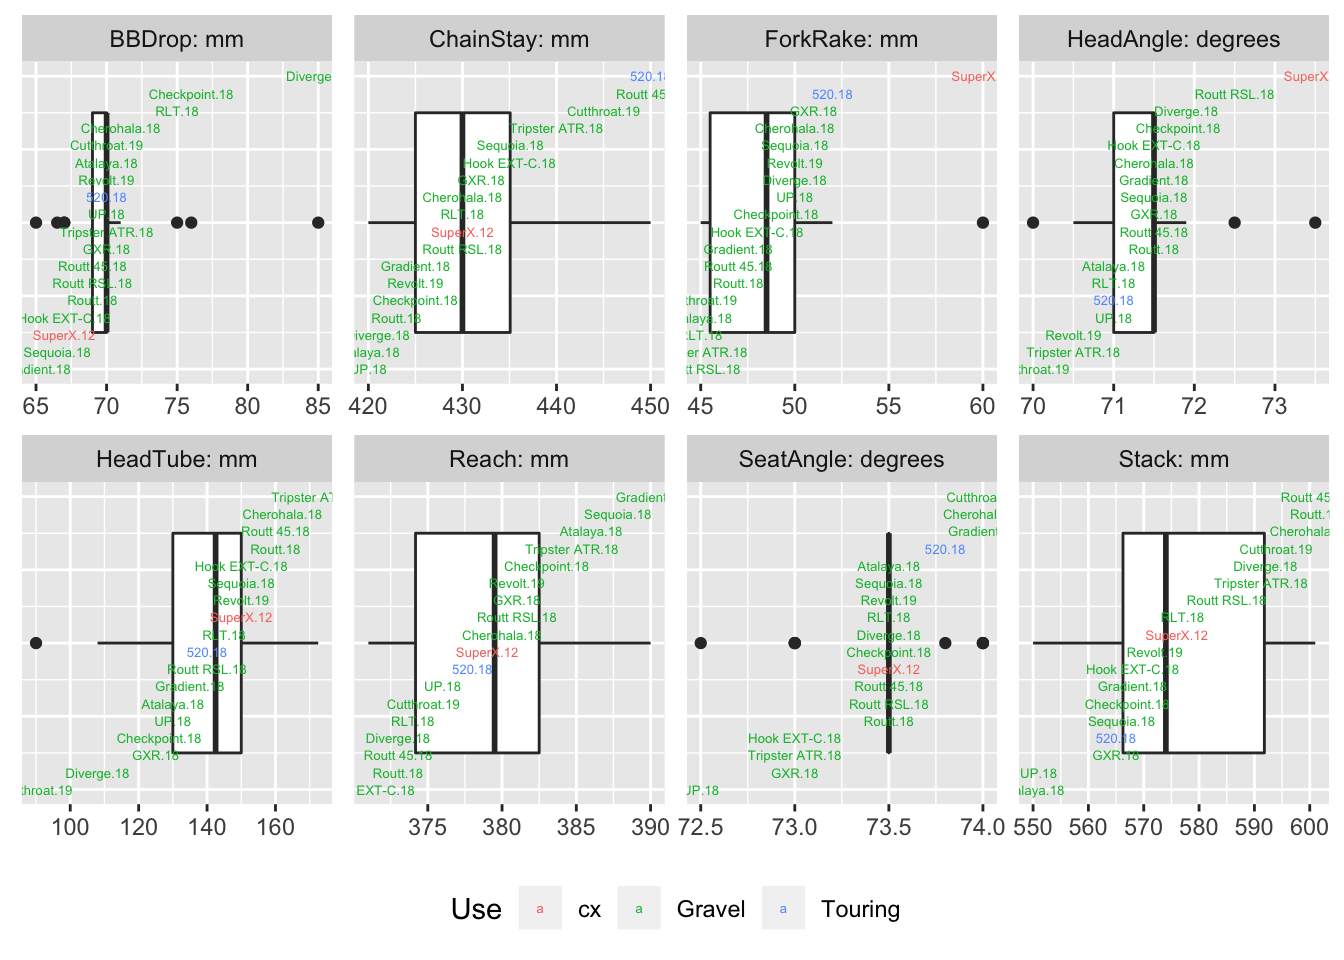
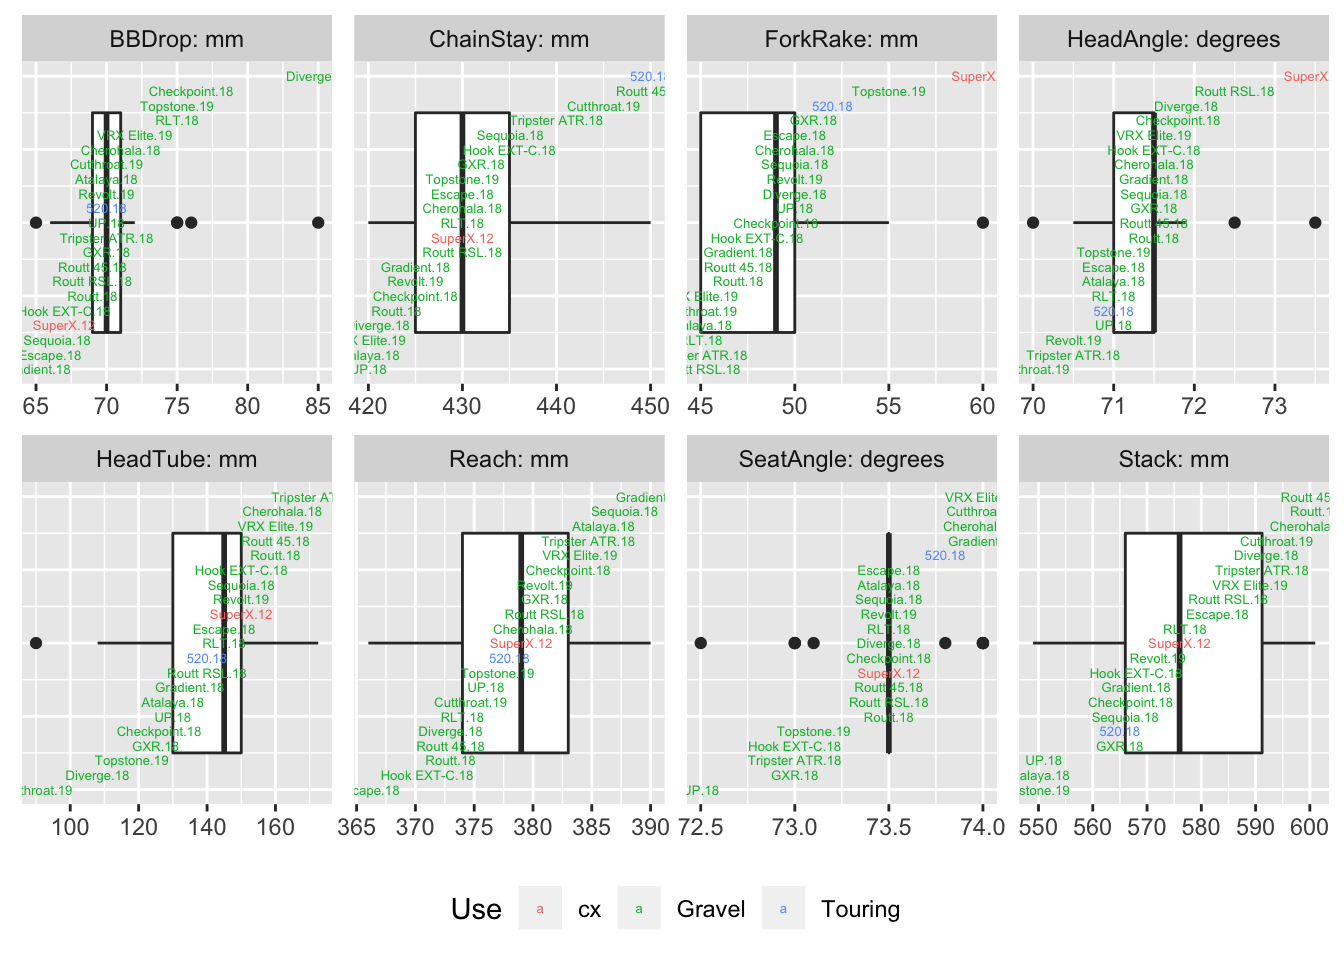
added topstone and vortec

diff --git a/public/post/2018-11-08-geometry/index.html b/public/post/2018-11-08-geometry/index.html
@@ -179,7 +179,7 @@ Figure 3: Where does each bike fall on each geometry attribute?
 <hr />
 <p>Here’s the data.</p>
 <div id="htmlwidget-1" style="width:100%;height:auto;" class="datatables html-widget"></div>
-<script type="application/json" data-for="htmlwidget-1">{"x":{"filter":"none","data":[["1","2","3","4","5","6","7","8","9","10","11","12","13","14","15","16","17","18","19","20","21","22","23","24","25","26","27","28","29","30","31","32"],["Bombtrack","Cannondale","Cannondale","Curve","Curve","Curve","Giant","Giant","Giant","Guillem","Kinesis","Litespeed","Moots","Moots","Moots","Moots","Moots","Moots","Niner","Niner","Open","Reilly","Salsa","Specialized","Specialized","Specialized","Specialized","Specialized","Specialized","Specialized","Trek","Trek"],["Hook EXT-C","SuperX","SuperX","Belgie","Belgie Spirit","GXR","Defy","Revolt","TCR Ad","Atalaya","Tripster ATR","Cherohala","Psychlo X RSL","Routt","Routt 45","Routt RSL","Vamoots","Vamoots RSL","Air9","RLT","UP","Gradient","Cutthroat","Crux","Diverge","Epic FS","Epic HT","Sequoia","Tarmac","Tarmac","520","Checkpoint"],[2018,2012,2018,2018,2018,2018,2018,2019,2018,2018,2018,2018,2018,2018,2018,2018,2018,2018,2018,2018,2018,2018,2019,2018,2018,2004,2018,2018,2018,2018,2018,2018],["Gravel","CX","CX","Road","Endurance","Gravel","Endurance","Gravel","Road","Gravel","Gravel","Gravel","CX","Gravel","Gravel","Gravel","Endurance","Road","XC","Gravel","Gravel","Gravel","Gravel","CX","Gravel","XC","XC","Gravel","Road","Road","Touring","Gravel"],[73,73.5,74,73.5,73.8,73,73.5,73.5,73,73.5,73,74,73.5,73.5,73.5,73.5,73.5,73.5,73,73.5,72.5,74,74,73.5,73.5,74,74,73.5,74,73.5,73.8,73.5],[71.5,73.5,71,73,71.5,71.5,72.5,70.5,73,71,70.5,71.5,72.5,71.5,71.5,72.5,72.5,73.5,71,71,71,71.5,70,71.5,71.9,70.5,69.8,71.5,73,73.5,71,71.8],[67,67,69,69,72,70,70,70,68,70,70,71,61,69,69,69,76,72,54,75,70,65,70,69,85,54,61,66.5,72,72,70,76],[435,430,422,410,420,432,420,425,405,420,440,430,423,423,450,430,415,410,439,430,420,425,445,425,421,426,430,435.1,410,410,450,425],[48,60,55,45,45,51,45,50,45,45,45,50,50,47,47,45,50,43,48,45,50,47,45,50,50,57,51,50,44,44,52,49],[568,576,555,552,574,565,567,572,545,550,591.2,600,577,601,601,585,586,572,617,577,551,568,593.9,566,592,617,608,566,544,565,565,567],[371,379,378,381,374,381,377,381,383,386,384.7,380,390,373,373,381,377,387,418,374,376,390,374.7,382,373,412,418,387.8,384,395,378,383]],"container":"<table class=\"display\">\n  <thead>\n    <tr>\n      <th> <\/th>\n      <th>Manufacturer<\/th>\n      <th>Frame<\/th>\n      <th>Year<\/th>\n      <th>Use<\/th>\n      <th>SeatAngle<\/th>\n      <th>HeadAngle<\/th>\n      <th>BBDrop<\/th>\n      <th>ChainStay<\/th>\n      <th>ForkRake<\/th>\n      <th>Stack<\/th>\n      <th>Reach<\/th>\n    <\/tr>\n  <\/thead>\n<\/table>","options":{"columnDefs":[{"className":"dt-right","targets":[3,5,6,7,8,9,10,11]},{"orderable":false,"targets":0}],"order":[],"autoWidth":false,"orderClasses":false}},"evals":[],"jsHooks":[]}</script>
+<script type="application/json" data-for="htmlwidget-1">{"x":{"filter":"none","data":[["1","2","3","4","5","6","7","8","9","10","11","12","13","14","15","16","17","18","19","20","21","22","23","24","25","26","27","28","29","30","31","32","33","34","35"],["Bombtrack","Cannondale","Cannondale","Cannondale","Curve","Curve","Curve","Enigma","Giant","Giant","Giant","Guillem","Kinesis","Litespeed","Moots","Moots","Moots","Moots","Moots","Moots","Niner","Niner","Open","Reilly","Salsa","Specialized","Specialized","Specialized","Specialized","Specialized","Specialized","Specialized","Trek","Trek","Votec"],["Hook EXT-C","SuperX","SuperX","Topstone","Belgie","Belgie Spirit","GXR","Escape","Defy","Revolt","TCR Ad","Atalaya","Tripster ATR","Cherohala","Psychlo X RSL","Routt","Routt 45","Routt RSL","Vamoots","Vamoots RSL","Air9","RLT","UP","Gradient","Cutthroat","Crux","Diverge","Epic FS","Epic HT","Sequoia","Tarmac","Tarmac","520","Checkpoint","VRX Elite"],[2018,2012,2018,2019,2018,2018,2018,2018,2018,2019,2018,2018,2018,2018,2018,2018,2018,2018,2018,2018,2018,2018,2018,2018,2019,2018,2018,2004,2018,2018,2018,2018,2018,2018,2019],["Gravel","CX","CX","Gravel","Road","Endurance","Gravel","Gravel","Endurance","Gravel","Road","Gravel","Gravel","Gravel","CX","Gravel","Gravel","Gravel","Endurance","Road","XC","Gravel","Gravel","Gravel","Gravel","CX","Gravel","XC","XC","Gravel","Road","Road","Touring","Gravel","Gravel"],[73,73.5,74,73.1,73.5,73.8,73,73.5,73.5,73.5,73,73.5,73,74,73.5,73.5,73.5,73.5,73.5,73.5,73,73.5,72.5,74,74,73.5,73.5,74,74,73.5,74,73.5,73.8,73.5,74],[71.5,73.5,71,71,73,71.5,71.5,71,72.5,70.5,73,71,70.5,71.5,72.5,71.5,71.5,72.5,72.5,73.5,71,71,71,71.5,70,71.5,71.9,70.5,69.8,71.5,73,73.5,71,71.8,71.5],[67,67,69,75,69,72,70,66,70,70,68,70,70,71,61,69,69,69,76,72,54,75,70,65,70,69,85,54,61,66.5,72,72,70,76,72],[435,430,422,430,410,420,432,430,420,425,405,420,440,430,423,423,450,430,415,410,439,430,420,425,445,425,421,426,430,435.1,410,410,450,425,420],[48,60,55,55,45,45,51,50,45,50,45,45,45,50,50,47,47,45,50,43,48,45,50,47,45,50,50,57,51,50,44,44,52,49,45],[568,576,555,549,552,574,565,583,567,572,545,550,591.2,600,577,601,601,585,586,572,617,577,551,568,593.9,566,592,617,608,566,544,565,565,567,589],[371,379,378,377,381,374,381,366,377,381,383,386,384.7,380,390,373,373,381,377,387,418,374,376,390,374.7,382,373,412,418,387.8,384,395,378,383,384]],"container":"<table class=\"display\">\n  <thead>\n    <tr>\n      <th> <\/th>\n      <th>Manufacturer<\/th>\n      <th>Frame<\/th>\n      <th>Year<\/th>\n      <th>Use<\/th>\n      <th>SeatAngle<\/th>\n      <th>HeadAngle<\/th>\n      <th>BBDrop<\/th>\n      <th>ChainStay<\/th>\n      <th>ForkRake<\/th>\n      <th>Stack<\/th>\n      <th>Reach<\/th>\n    <\/tr>\n  <\/thead>\n<\/table>","options":{"columnDefs":[{"className":"dt-right","targets":[3,5,6,7,8,9,10,11]},{"orderable":false,"targets":0}],"order":[],"autoWidth":false,"orderClasses":false}},"evals":[],"jsHooks":[]}</script>
 <hr />
 <div id="acknowledgements" class="section level1">
 <h1>Acknowledgements</h1>

diff --git a/content/post/2018-11-08-geometry.html b/content/post/2018-11-08-geometry.html
@@ -62,7 +62,7 @@ Figure 3: Where does each bike fall on each geometry attribute?
 <hr />
 <p>Here’s the data.</p>
 <div id="htmlwidget-1" style="width:100%;height:auto;" class="datatables html-widget"></div>
-<script type="application/json" data-for="htmlwidget-1">{"x":{"filter":"none","data":[["1","2","3","4","5","6","7","8","9","10","11","12","13","14","15","16","17","18","19","20","21","22","23","24","25","26","27","28","29","30","31","32"],["Bombtrack","Cannondale","Cannondale","Curve","Curve","Curve","Giant","Giant","Giant","Guillem","Kinesis","Litespeed","Moots","Moots","Moots","Moots","Moots","Moots","Niner","Niner","Open","Reilly","Salsa","Specialized","Specialized","Specialized","Specialized","Specialized","Specialized","Specialized","Trek","Trek"],["Hook EXT-C","SuperX","SuperX","Belgie","Belgie Spirit","GXR","Defy","Revolt","TCR Ad","Atalaya","Tripster ATR","Cherohala","Psychlo X RSL","Routt","Routt 45","Routt RSL","Vamoots","Vamoots RSL","Air9","RLT","UP","Gradient","Cutthroat","Crux","Diverge","Epic FS","Epic HT","Sequoia","Tarmac","Tarmac","520","Checkpoint"],[2018,2012,2018,2018,2018,2018,2018,2019,2018,2018,2018,2018,2018,2018,2018,2018,2018,2018,2018,2018,2018,2018,2019,2018,2018,2004,2018,2018,2018,2018,2018,2018],["Gravel","CX","CX","Road","Endurance","Gravel","Endurance","Gravel","Road","Gravel","Gravel","Gravel","CX","Gravel","Gravel","Gravel","Endurance","Road","XC","Gravel","Gravel","Gravel","Gravel","CX","Gravel","XC","XC","Gravel","Road","Road","Touring","Gravel"],[73,73.5,74,73.5,73.8,73,73.5,73.5,73,73.5,73,74,73.5,73.5,73.5,73.5,73.5,73.5,73,73.5,72.5,74,74,73.5,73.5,74,74,73.5,74,73.5,73.8,73.5],[71.5,73.5,71,73,71.5,71.5,72.5,70.5,73,71,70.5,71.5,72.5,71.5,71.5,72.5,72.5,73.5,71,71,71,71.5,70,71.5,71.9,70.5,69.8,71.5,73,73.5,71,71.8],[67,67,69,69,72,70,70,70,68,70,70,71,61,69,69,69,76,72,54,75,70,65,70,69,85,54,61,66.5,72,72,70,76],[435,430,422,410,420,432,420,425,405,420,440,430,423,423,450,430,415,410,439,430,420,425,445,425,421,426,430,435.1,410,410,450,425],[48,60,55,45,45,51,45,50,45,45,45,50,50,47,47,45,50,43,48,45,50,47,45,50,50,57,51,50,44,44,52,49],[568,576,555,552,574,565,567,572,545,550,591.2,600,577,601,601,585,586,572,617,577,551,568,593.9,566,592,617,608,566,544,565,565,567],[371,379,378,381,374,381,377,381,383,386,384.7,380,390,373,373,381,377,387,418,374,376,390,374.7,382,373,412,418,387.8,384,395,378,383]],"container":"<table class=\"display\">\n  <thead>\n    <tr>\n      <th> <\/th>\n      <th>Manufacturer<\/th>\n      <th>Frame<\/th>\n      <th>Year<\/th>\n      <th>Use<\/th>\n      <th>SeatAngle<\/th>\n      <th>HeadAngle<\/th>\n      <th>BBDrop<\/th>\n      <th>ChainStay<\/th>\n      <th>ForkRake<\/th>\n      <th>Stack<\/th>\n      <th>Reach<\/th>\n    <\/tr>\n  <\/thead>\n<\/table>","options":{"columnDefs":[{"className":"dt-right","targets":[3,5,6,7,8,9,10,11]},{"orderable":false,"targets":0}],"order":[],"autoWidth":false,"orderClasses":false}},"evals":[],"jsHooks":[]}</script>
+<script type="application/json" data-for="htmlwidget-1">{"x":{"filter":"none","data":[["1","2","3","4","5","6","7","8","9","10","11","12","13","14","15","16","17","18","19","20","21","22","23","24","25","26","27","28","29","30","31","32","33","34","35"],["Bombtrack","Cannondale","Cannondale","Cannondale","Curve","Curve","Curve","Enigma","Giant","Giant","Giant","Guillem","Kinesis","Litespeed","Moots","Moots","Moots","Moots","Moots","Moots","Niner","Niner","Open","Reilly","Salsa","Specialized","Specialized","Specialized","Specialized","Specialized","Specialized","Specialized","Trek","Trek","Votec"],["Hook EXT-C","SuperX","SuperX","Topstone","Belgie","Belgie Spirit","GXR","Escape","Defy","Revolt","TCR Ad","Atalaya","Tripster ATR","Cherohala","Psychlo X RSL","Routt","Routt 45","Routt RSL","Vamoots","Vamoots RSL","Air9","RLT","UP","Gradient","Cutthroat","Crux","Diverge","Epic FS","Epic HT","Sequoia","Tarmac","Tarmac","520","Checkpoint","VRX Elite"],[2018,2012,2018,2019,2018,2018,2018,2018,2018,2019,2018,2018,2018,2018,2018,2018,2018,2018,2018,2018,2018,2018,2018,2018,2019,2018,2018,2004,2018,2018,2018,2018,2018,2018,2019],["Gravel","CX","CX","Gravel","Road","Endurance","Gravel","Gravel","Endurance","Gravel","Road","Gravel","Gravel","Gravel","CX","Gravel","Gravel","Gravel","Endurance","Road","XC","Gravel","Gravel","Gravel","Gravel","CX","Gravel","XC","XC","Gravel","Road","Road","Touring","Gravel","Gravel"],[73,73.5,74,73.1,73.5,73.8,73,73.5,73.5,73.5,73,73.5,73,74,73.5,73.5,73.5,73.5,73.5,73.5,73,73.5,72.5,74,74,73.5,73.5,74,74,73.5,74,73.5,73.8,73.5,74],[71.5,73.5,71,71,73,71.5,71.5,71,72.5,70.5,73,71,70.5,71.5,72.5,71.5,71.5,72.5,72.5,73.5,71,71,71,71.5,70,71.5,71.9,70.5,69.8,71.5,73,73.5,71,71.8,71.5],[67,67,69,75,69,72,70,66,70,70,68,70,70,71,61,69,69,69,76,72,54,75,70,65,70,69,85,54,61,66.5,72,72,70,76,72],[435,430,422,430,410,420,432,430,420,425,405,420,440,430,423,423,450,430,415,410,439,430,420,425,445,425,421,426,430,435.1,410,410,450,425,420],[48,60,55,55,45,45,51,50,45,50,45,45,45,50,50,47,47,45,50,43,48,45,50,47,45,50,50,57,51,50,44,44,52,49,45],[568,576,555,549,552,574,565,583,567,572,545,550,591.2,600,577,601,601,585,586,572,617,577,551,568,593.9,566,592,617,608,566,544,565,565,567,589],[371,379,378,377,381,374,381,366,377,381,383,386,384.7,380,390,373,373,381,377,387,418,374,376,390,374.7,382,373,412,418,387.8,384,395,378,383,384]],"container":"<table class=\"display\">\n  <thead>\n    <tr>\n      <th> <\/th>\n      <th>Manufacturer<\/th>\n      <th>Frame<\/th>\n      <th>Year<\/th>\n      <th>Use<\/th>\n      <th>SeatAngle<\/th>\n      <th>HeadAngle<\/th>\n      <th>BBDrop<\/th>\n      <th>ChainStay<\/th>\n      <th>ForkRake<\/th>\n      <th>Stack<\/th>\n      <th>Reach<\/th>\n    <\/tr>\n  <\/thead>\n<\/table>","options":{"columnDefs":[{"className":"dt-right","targets":[3,5,6,7,8,9,10,11]},{"orderable":false,"targets":0}],"order":[],"autoWidth":false,"orderClasses":false}},"evals":[],"jsHooks":[]}</script>
 <hr />
 <div id="acknowledgements" class="section level1">
 <h1>Acknowledgements</h1>
